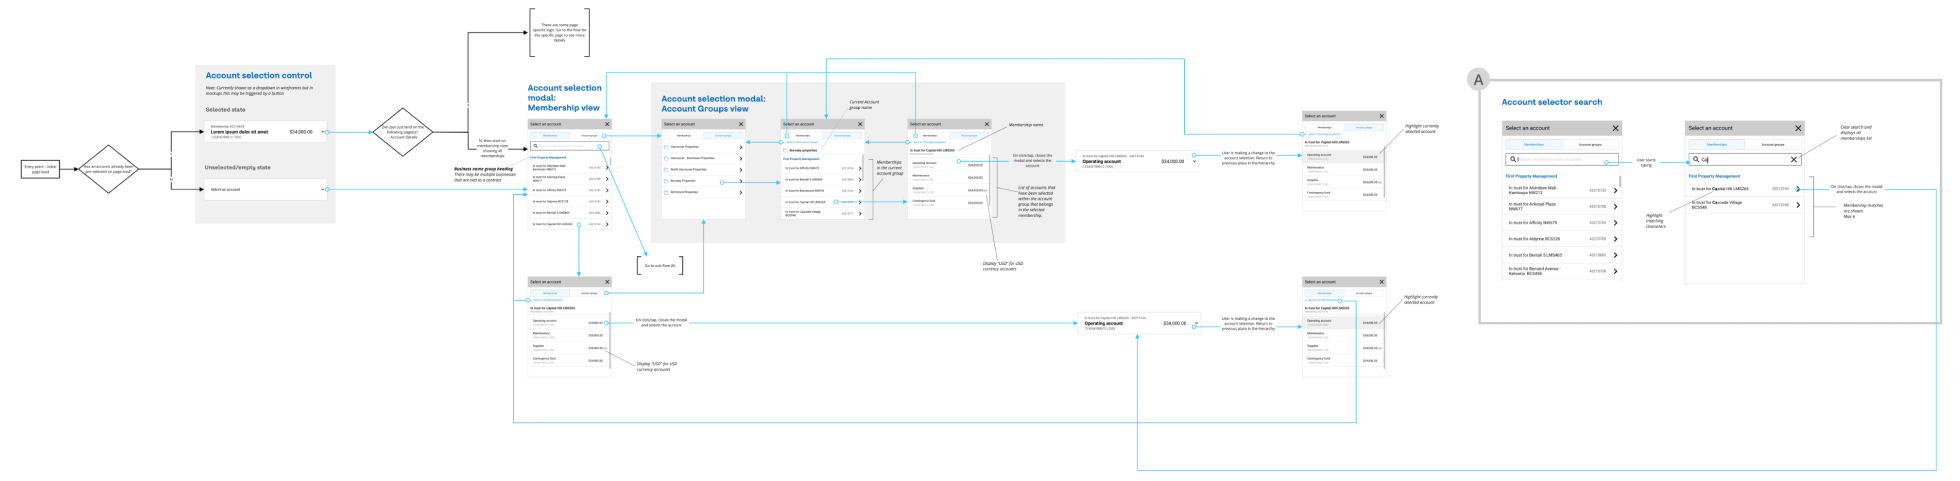
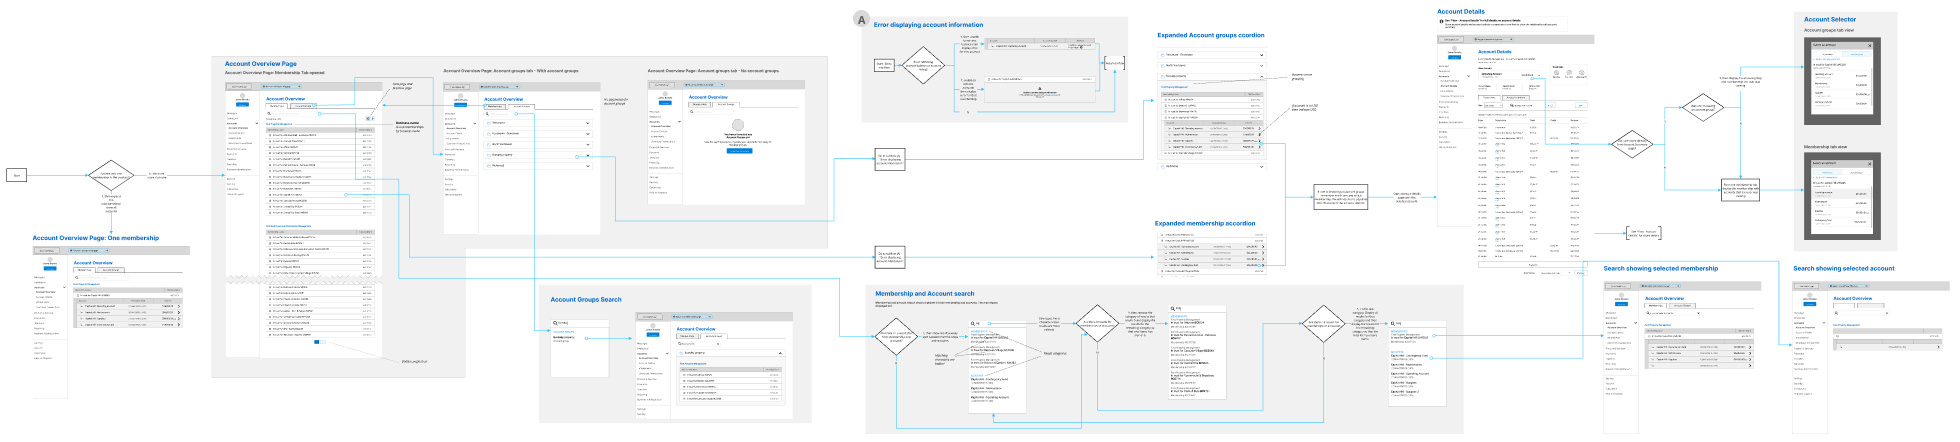
Update to CCS case study

diff --git a/coastcapital.html b/coastcapital.html
@@ -55,7 +55,8 @@
     </div>
     <div class="section">
       <div class="container">
-        <p>As a Digital UX Specialist at <a class="inline-link" href="https://www.coastcapitalsavings.com/" target="_blank">Coast Capital Savings</a>, I was tasked with designing a corporate digital banking platform. My objective was to design a platform that complemented the bank's distinct identity, set guidelines, and integrated range of services.</p>
+        <p><a class="inline-link" href="https://www.coastcapitalsavings.com/" target="_blank">Coast Capital Savings</a>, a credit union in British Columbia, Canada, had recently undergone a major rebranding effort aimed at modernizing its offerings. Historically focused on personal banking, the institution sought to expand its corporate banking services to align with its updated brand identity.</p>
+        <p>During my time as a Digital UX Specialist on the Digital Experience Team, I was the primary designer for Coast Capital's new Corporate Digital Banking Platform (CDBP), serving their 600,000 users Canada-wide. My responsibilities included research, information architecture, wireframing, prototyping, and visual design. Additionally, I ensured platform-wide consistency through documentation of use cases and UI elements, and I spearheaded the switch from Sketch to Figma as our main design tool, including the migration of the entire design system. My team consisted of three UX designers and a UX lead, and together we worked to ensure all digital experiences across web and app channels felt cohesive and user-centric.</p>
       </div>
     </div>
     <div class="section">
@@ -65,68 +66,103 @@
     </div>
     <div class="section">
       <div class="container">
-        <h2>Design objectives</h2>
-        <p>The primary goal was to create a platform that was attuned to the unique needs of corporate banking while properly representing Coasts' brand identity. This platform had to be flexible and capable of dealing with the huge amounts of financial data that businesses use. Some of the main UX aspects were:</p>
+        <h2>Challenge</h2>
+        <p>The existing corporate digital banking platform faced several critical issues:</p>
         <ul>
-          <li>Versatility: The digital world is wide. The platform was designed to be flexible and compatible with a wide variety of devices, offering a consistent experience from computers to smartphones.</li>
-          <li>Top-tier Security: Banking needs trust. We included advanced features such as multi-factor authentication and end-to-end encryption. The challenge? Doing so without interfering with the user's journey.</li>
-          <li>Clear display: Financial details need clarity. Whether it's transaction histories or other vital banking information, our design prioritized clarity and ease of understanding.</li>
-          <li>Feedback mechanisms: Banking actions should never leave users in the dark. To keep users in the loop, we implemented instant notifications and confirmations.</li>
+          <li>Clients couldn't access the platform on mobile devices, limiting its usability for on-the-go business need</li>
+          <li>The platform's design was not in line with modern standards, creating friction and inefficiencies.</li>
+          <li>Essential features such as bulk payments, real-time transaction updates, and integration with accounting software were absent.</li>
         </ul>
+        <p>Corporate banking also posed unique challenges compared to personal banking, including:</p>
+        <ul>
+          <li>The scale of datasets.</li>
+          <li>Customization needs.</li>
+          <li>The complexity of navigating large amounts of financial data without intuitive design solutions.</li>
+        </ul>
+      </div>
+    </div>
+    <div class="section">
+      <div class="container">
+        <h2>Research</h2>
+        <p>To fully understand user needs and pain points, I conducted:</p>
+        <ul>
+          <li><b>Stakeholder Interviews</b>: Discussions with product managers revealed the platform's shortcomings and highlighted key priorities: mobile access, a modern user experience, and critical new features like bulk payments and real-time updates.</li>
+          <li><b>Competitive Analysis</b>: Analysis of major Canadian banking platforms highlighted strengths such as intuitive dashboards and robust security features. However, it also exposed a common gap: the lack of customization options to address information overload.</li>
+        </ul>
+      </div>
+    </div>
+    <div class="section">
+      <div class="container">
+        <h2>Ideation & Design</h2>
+        <p>The primary goals for the redesign included:</p>
+        <ul>
+          <li><b>Scalability</b>: To address diverse client needs.</li>
+          <li><b>Seamless Security Integration</b>: To enhance trust.</li>
+          <li><b>User-Centric Solutions</b>: To reduce cognitive load.</li>
+        </ul>
+        <p>Wireframes were created to visualize the platform's structure and features, such as login, dashboards, and transfer flows. These wireframes facilitated collaboration with product managers and developers, ensuring alignment and iterative improvements.</p>
+      </div>
+    </div>
+    <div class="section">
+      <div class="container">
+        <p>One example is the redesign of the account selector. The personal banking account selector could not scale for corporate clients managing thousands of accounts. I developed a search-enabled, multi-layered selector that preserved the visual consistency of the personal platform while addressing corporate requirements.</p>
       </div>
     </div>
     <div class="section">
       <div class="container wide">
         <img src="resources/images/ccs_2.jpg">
-        <figcaption>User flow for the account details page and its interactive features.</figcaption>
+        <figcaption>The redesigned account selection process, which incorporates a search-enabled, multi-layered approach to address the scalability needs of corporate users.</figcaption>
       </div>
     </div>
     <div class="section">
       <div class="container">
-        <h2>Collaborative approach</h2>
-        <p>Collaboration was at the heart of our project:</p>
-        <ul>
-          <li>Product managers provided insight into which features were most important.</li>
-          <li>Developers brought in the technical possibilities and limitations.</li>
-          <li>Marketing experts shared their knowledge on gaining and retaining customers.</li>
-        </ul>
-        <p>My role was to weave these diverse ideas into a cohesive design story that spoke to each stakeholder.</p>
-      </div>
-    </div>
-    <div class="section">
-      <div class="container">
-        <h2>Infusing user insights</h2>
-        <p>Participating in user research and usability testing sessions firsthand was eye-opening. These interactions gave insight into users' true wants, needs, and challenges. This feedback was crucial in refining the designs and making them truly user-friendly.</p>
+        <p>To combat information overload, I introduced “Account Groups.” This customization feature allowed users to cluster accounts based on their criteria (e.g., by location or project), making navigation intuitive and reducing complexity.</p>
       </div>
     </div>
     <div class="section">
       <div class="container wide">
         <img src="resources/images/ccs_3.jpg">
-        <figcaption>A wireframe depiction of the account selection process.</figcaption>
+        <figcaption>The user flow for the account details page, showcasing how users can interact with account groups and navigate complex datasets efficiently.</figcaption>
       </div>
     </div>
     <div class="section">
       <div class="container">
-        <h2>Ensuring brand consistency</h2>
-        <p>The identity of a brand is its heart. In order to safeguard the platform's identity, I was involved in the creation of design guidelines and a corporate style guide. This ensured that regardless of how users interacted with the bank – whether on our platform or elsewhere – they had a consistent brand experience, improving brand recognition.</p>
-      </div>
-    </div>
-    <div class="section">
-      <div class="container">
-        <h2>Results</h2>
-        <p>Even while the platform's official launch is on the horizon, first feedback is promising. Stakeholders and chosen user groups are optimistic, signalling that the corporate digital banking platform has a promising future.</p>
+        <h2>High-Fidelity Prototypes</h2>
+        <p>Using Coast's branding guidelines, I translated wireframes into high-fidelity prototypes that ensured visual and functional consistency with the compan's design system. These prototypes were created, refined, and tested collaboratively with cross-functional teams to align the project vision with technical feasibility and stakeholder goals.</p>
       </div>
     </div>
     <div class="section">
       <div class="container wide">
         <img src="resources/images/ccs_4.jpg">
-        <figcaption>The complicated scheduled transfer system was streamlined and enhanced for fewer user actions.</figcaption>
+        <figcaption>The scheduled transfer system was redesigned to reduce user actions, streamlining the process for corporate clients.</figcaption>
+      </div>
+    </div>
+    <div class="section">
+      <div class="container">
+        <h2>User Testing</h2>
+        <p>We conducted 12 user tests over video, simulating real-world tasks within the platform. My team rotated between facilitating, observing, and note-taking roles, ensuring thorough documentation of insights. The findings revealed:</p>
+        <ul>
+          <li>Enhanced navigation and mobile responsiveness.</li>
+          <li>Security features that reassured users without disrupting workflows.</li>
+          <li>Testers praised the intuitive design and seamless functionality across devices.</li>
+        </ul>
+      </div>
+    </div>
+    <div class="section">
+      <div class="container">
+        <h2>Outcomes</h2>
+        <p>The platform design successfully addressed the major concerns of the legacy platform while introducing innovative features like “Account Groups” to differentiate it from competitors. Feedback from stakeholders and early client previews at conferences indicated:</p>
+        <ul>
+          <li>Strong enthusiasm and validation for the redesign.</li>
+          <li>Alignment with corporate clients' evolving needs.</li>
+          <li>A scalable, cohesive, and modernized platform.</li>
+        </ul>
       </div>
     </div>
     <div class="section">
       <div class="container">
         <h2>Conclusion</h2>
-        <p>The future digital banking platform demonstrates the most recent advances in modern banking. As banking becomes more digital, platforms that deliver a user-friendly experience while ensuring brand validity become increasingly important. This new platform will highlight the significance of striking a balance between creative UX design and brand integrity.</p>
+        <p>This project exemplified the balance between innovation and brand alignment. By addressing complex corporate banking needs while maintaining a cohesive user experience, the revamped platform set a new standard for digital banking at Coast Capital. Leading this project from research to high-fidelity prototypes provided invaluable experience in user-centered design and collaboration across teams.</p>
       </div>
     </div>
   </main>

diff --git a/resources/css/style.css b/resources/css/style.css
@@ -458,12 +458,19 @@ footer .container {
 }
 
 .project h2,
-.project p,
+.project p {
+  font-size: clamp(1rem, 3vw, 1.25rem);
+  line-height: 150%;
+  max-width: 800px;
+  margin: 0 auto 1rem;
+}
+
 .project ul {
   font-size: clamp(1rem, 3vw, 1.25rem);
   line-height: 150%;
   max-width: 800px;
   margin: 0 auto 1rem;
+  padding-left: 1.5rem;
 }
 
 .project h2 {
